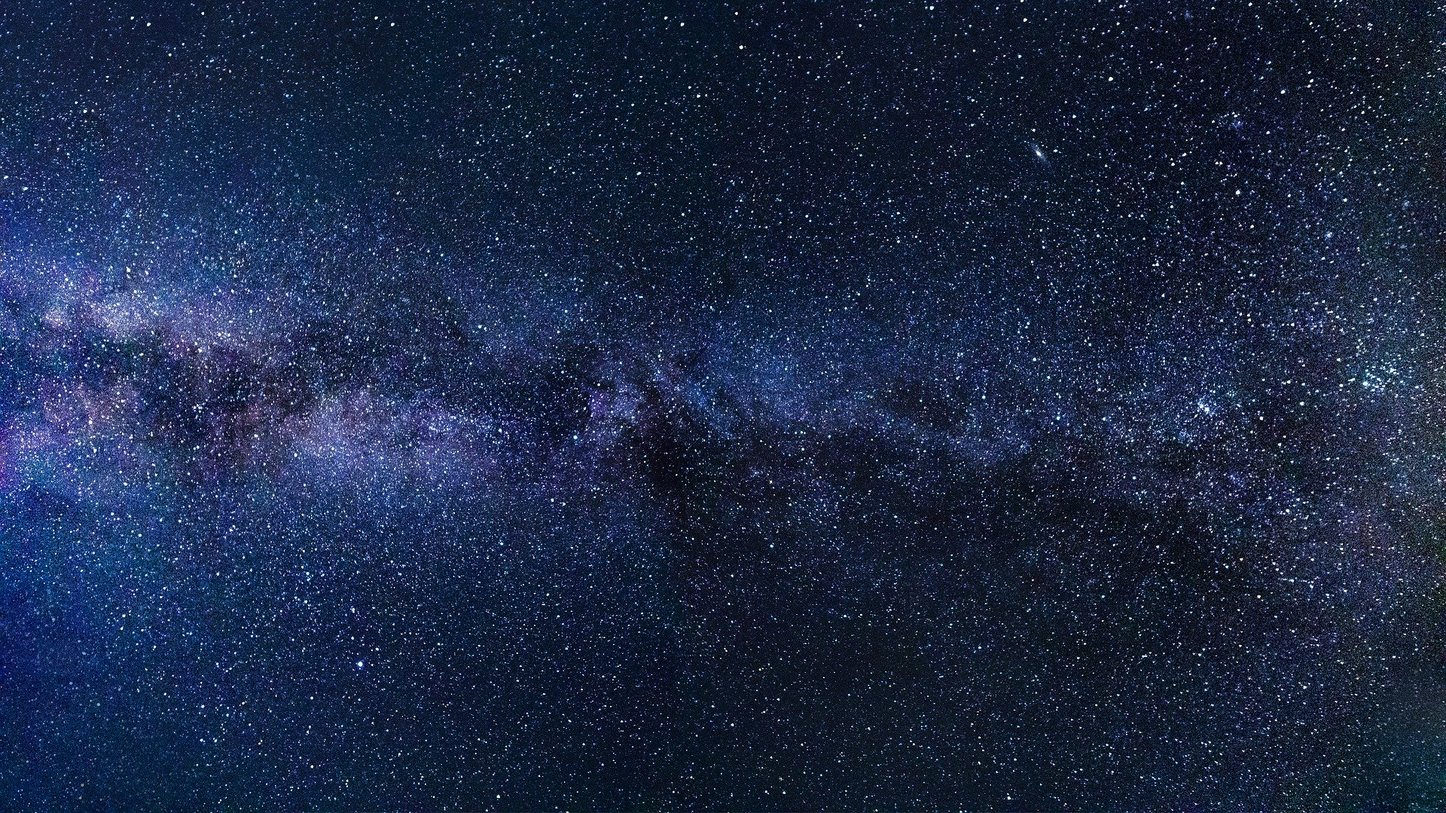
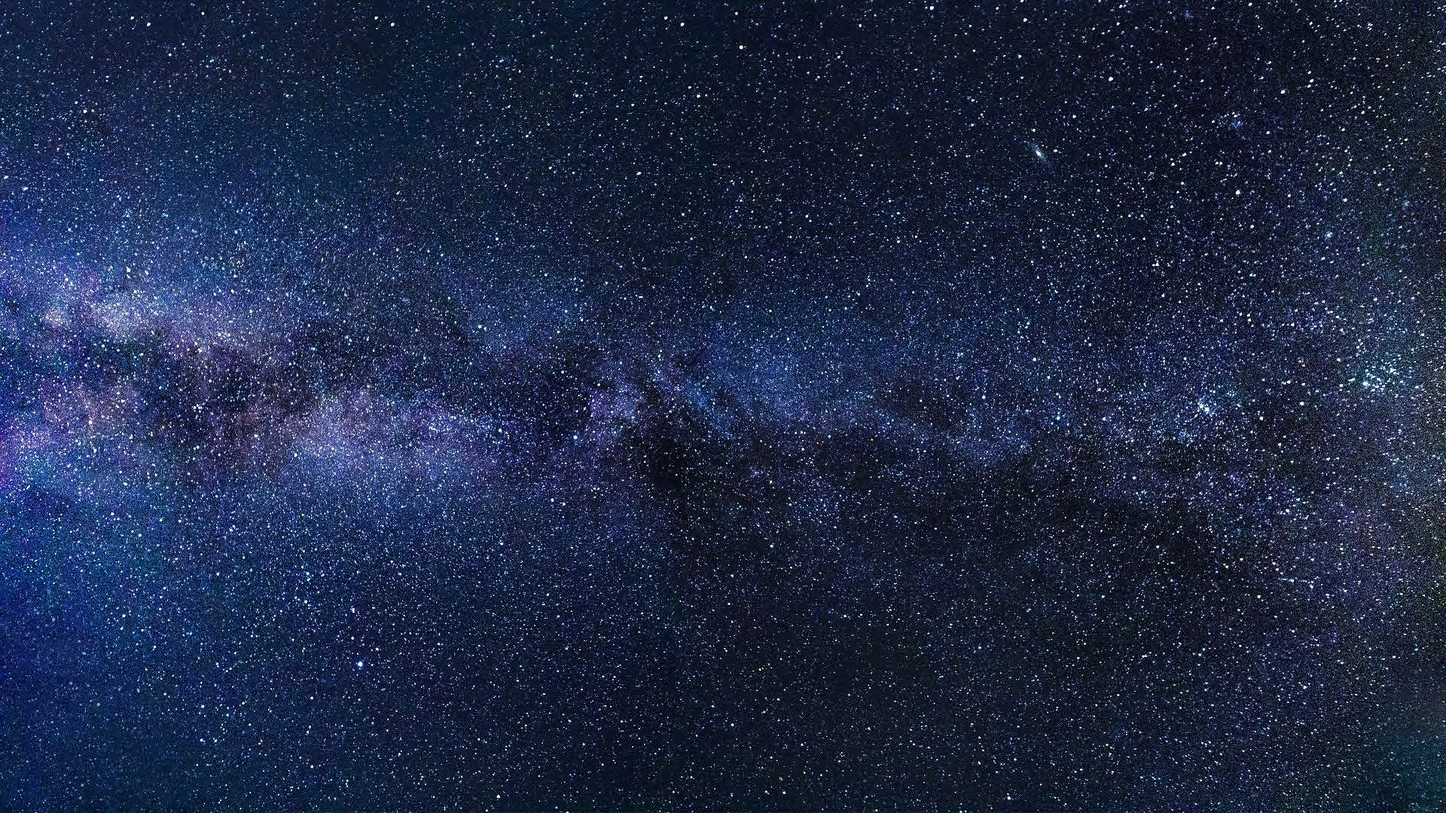
update background image

diff --git a/index.html b/index.html
@@ -48,6 +48,7 @@
         <h2 class="home__description">세상을 편리하게 만들고 싶은 개발자</h2>
         <button class="home__contact">Contact Me</button>
       </div>
+      <img src="imgs/home-background.jpg" alt="background image" class="home__background">
     </section>
 
     <!-- About -->

diff --git a/style.css b/style.css
@@ -178,6 +178,20 @@ p {
   height: 100vh;
 }
 
+.home__container {
+  z-index: 1;
+}
+
+.home__background {
+  position: absolute;
+  top: 0;
+  width: 100%;
+  height: 100%;
+  opacity: 0.25;
+  z-index: 0;
+  pointer-events: none;
+}
+
 .home__title,
 .home__description {
   color: var(--color-white);
